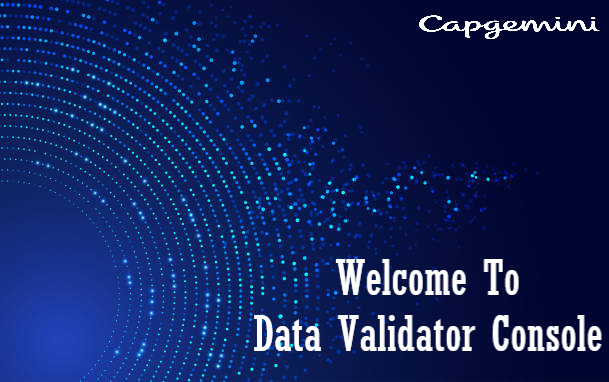
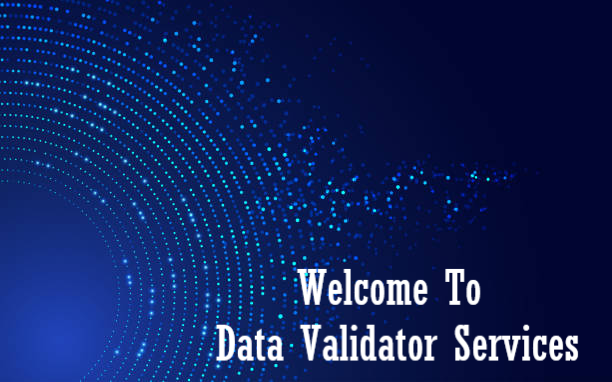
update on login and landing

diff --git a/src/Components/Home.jsx b/src/Components/Home.jsx
@@ -92,7 +92,7 @@ const Home = () => {
                             style={{ color: "#ff6219" }}
                           />
                           <span className="h1 fw-bold mb-0">
-                            Data Validator
+                            <h2 className="text-bold">Data Validator Services</h2>
                           </span>
                         </div>
                         {invalidLogin && (

diff --git a/src/Components/Landing.jsx b/src/Components/Landing.jsx
@@ -12,7 +12,7 @@ const Landing = () => {
           className="col-md-3"
           style={{ backgroundColor: lightTheme.lightBlue }}
         >
-          <Sidebar name="Landing Page" />
+          <Sidebar name="Dashboard" />
         </div>
         <div
           className="d-flex col-md-9  text-center align-items-center justify-content-center "

diff --git a/src/Components/TaskHistory.jsx b/src/Components/TaskHistory.jsx
@@ -43,7 +43,7 @@ const TaskHistory = () => {
           className="col-md-3"
           style={{ backgroundColor: lightTheme.lightBlue }}
         >
-          <Sidebar name="Landing Page" />
+          <Sidebar name="Task History" />
         </div>
         <div
           className=" col-md-9  "

diff --git a/src/Components/Endpoints.jsx b/src/Components/Endpoints.jsx
@@ -96,7 +96,7 @@ const Endpoints = () => {
           className="col-md-3"
           style={{ backgroundColor: lightTheme.lightBlue }}
         >
-          <Sidebar name="Endpoints Page" />
+          <Sidebar name="Endpoints" />
         </div>
         <div
           className=" col-md-9  "
